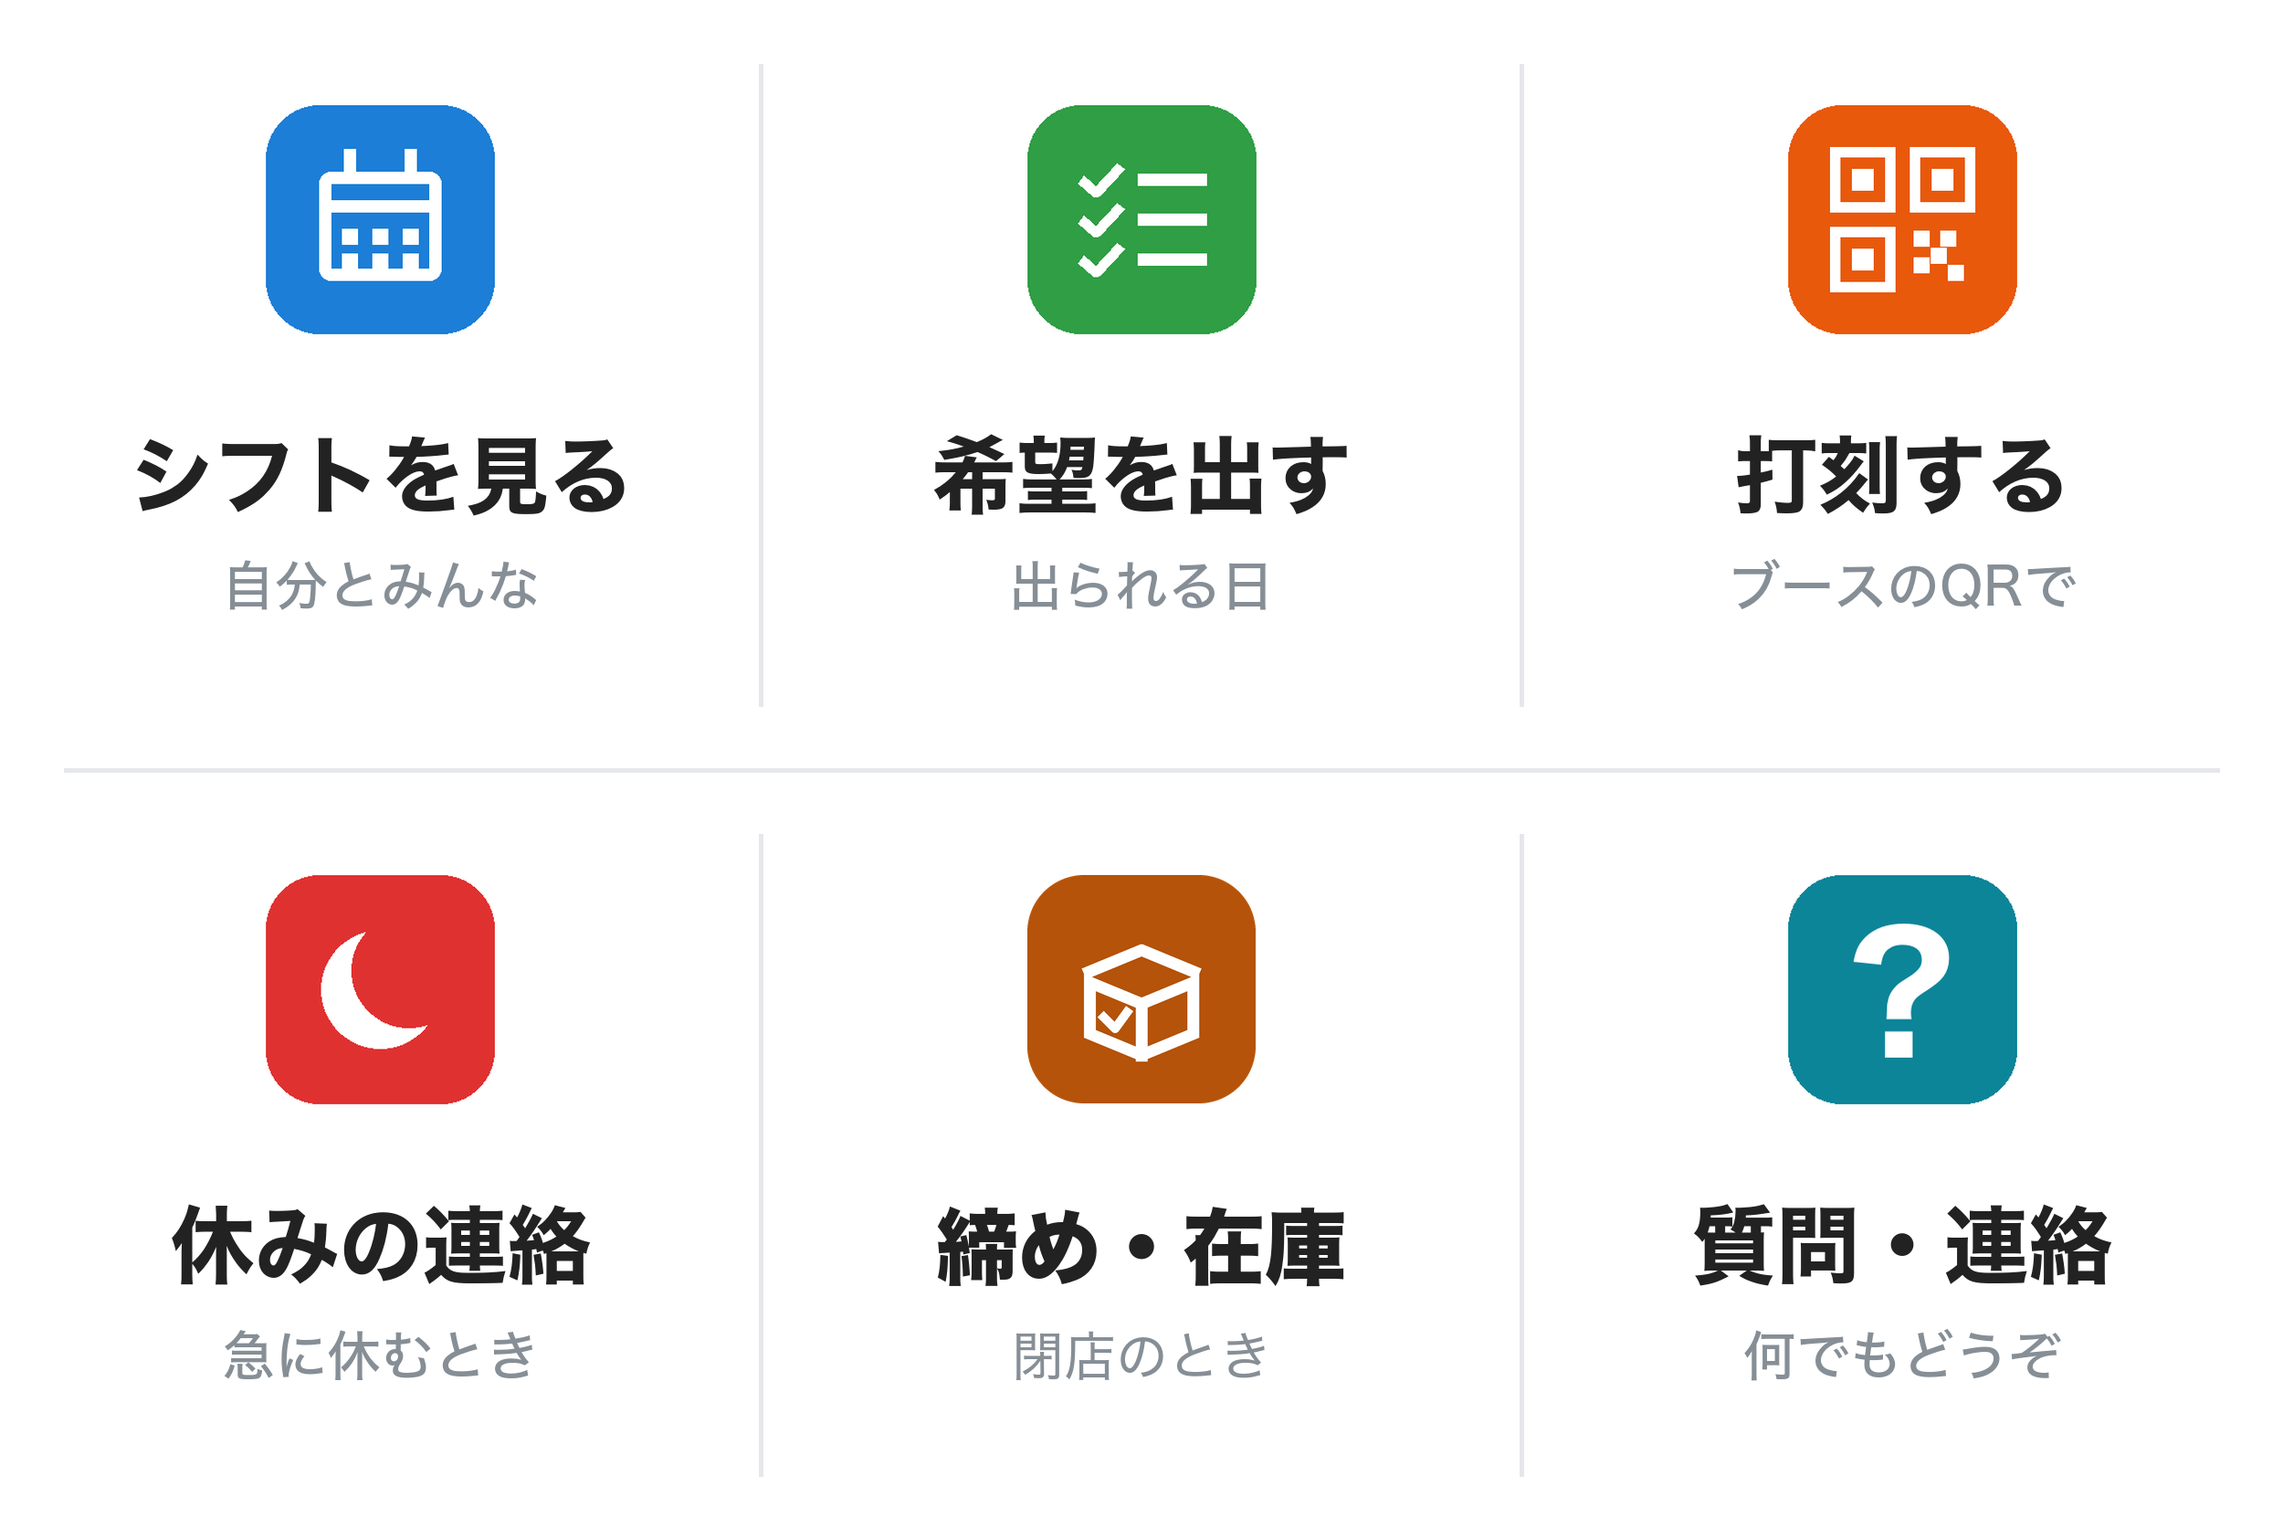
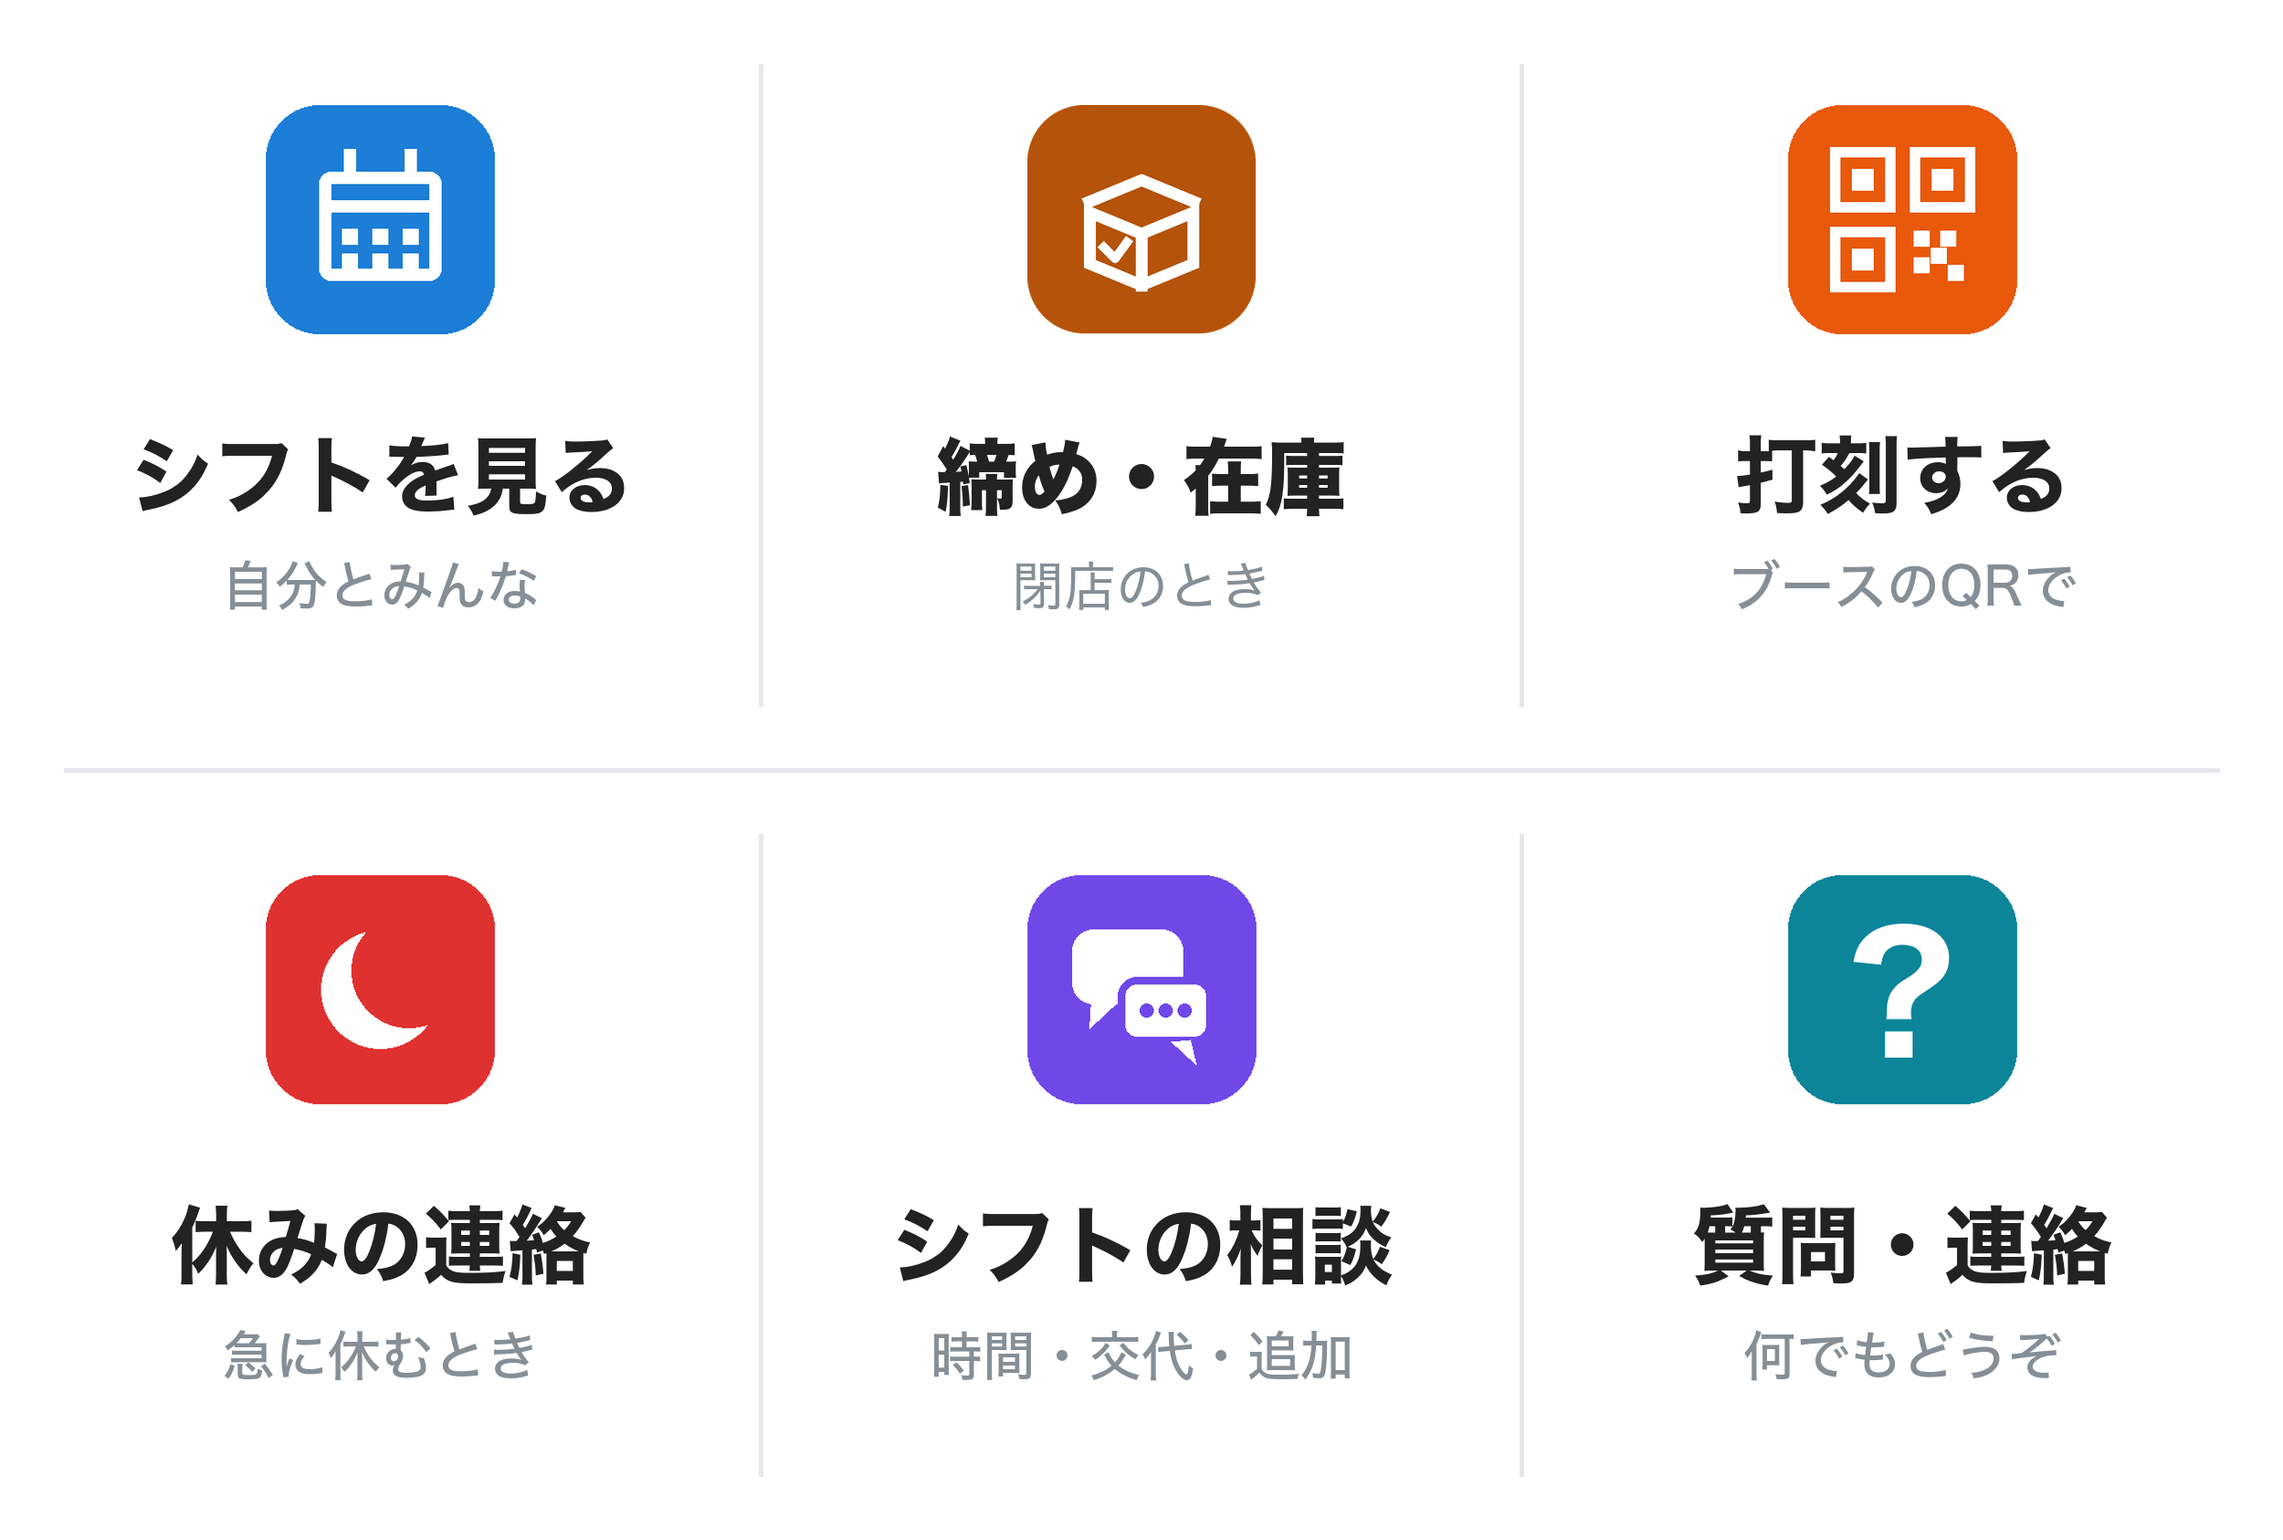
催事の在庫: LINEメニューは「希望を出す」の枠を「締め・在庫」にする（シフトの相談は残す）
在庫を使っている間は上の段のまん中を在庫の画面にする。希望はトークに「希望」と
送れば出せる（募集のときは「希望を出す」ボタン付きの案内が届く）。
シフトの相談の案内文は元に戻した。

diff --git a/backend/src/routes/line.ts b/backend/src/routes/line.ts
@@ -794,7 +794,7 @@ router.post('/webhook/:companyId', async (req: Request, res: Response): Promise<
       } else if (event.type === 'follow' && event.replyToken) {
         const known = lineMember(companyId, lineUserId);
         await replyLine(s.channel_access_token, event.replyToken, known
-          ? `${known.name}さん、おかえりなさい。トーク画面の下のメニューから、シフトを見る・希望を出す・休みの連絡・${consultName(companyId)}・打刻ができます。`
+          ? `${known.name}さん、おかえりなさい。トーク画面の下のメニューから、シフトを見る・${requestsName(companyId)}・休みの連絡・シフトの相談・打刻ができます。`
           : `友だち追加ありがとうございます。\n\nシフトの連絡を受け取るために、このトークに【名前とふりがな】を送ってください。\n例：山田 花子 やまだ はなこ\n\n${W(companyId)}が確認したら「連携できました」とお知らせします。\n（お店からもらった招待QRがある人は、そちらを読んでもOKです）`);
       } else if (event.type === 'unfollow') {
         db.prepare('DELETE FROM user_line_ids WHERE line_user_id = ?').run(lineUserId);
@@ -896,7 +896,7 @@ export function W(companyId: number): string {
 
 // 連携できたときの返事（招待リンク・承認のどちらでも同じ文面）
 const linkedMsg = (companyId: number, name: string) =>
-  `${name}さん、連携できました🎉\n\nこれからはこのLINEで、シフトの公開や希望の受付をお知らせします。\nトーク画面の下のメニューから、シフトを見る・希望を出す・休みの連絡・打刻ができます。\n\nシフトを変えたい・代わってほしいときは${consultHow(companyId)}、そのほかは「質問・連絡」を押してください。${W(companyId)}に届きます。`;
+  `${name}さん、連携できました🎉\n\nこれからはこのLINEで、シフトの公開や希望の受付をお知らせします。\nトーク画面の下のメニューから、シフトを見る・${requestsName(companyId)}・休みの連絡・打刻ができます。\n\nシフトを変えたい・代わってほしいときは「シフトの相談」、そのほかは「質問・連絡」を押してください。${W(companyId)}に届きます。`;
 
 // まだ連携していない人への案内（メニューを押したときなど）
 const unlinkedMsg = (companyId: number) =>
@@ -1007,12 +1007,12 @@ async function handleText(text: string, companyId: number, lineUserId: string, t
       return;
     }
     if (what === 'help') {
-      await replyLine(token, replyToken, `【使い方】トーク画面の下のメニューを押してください。\n・シフトを見る … 自分とみんなの予定\n・希望を出す … 出られる日を提出\n・打刻する … ブースのQRを読んで出勤・退勤\n・休みの連絡 … 休むシフトを${W(companyId)}に連絡\n${stockMenu(companyId) ? '・締め・在庫 … 閉店の残りの数え・レジ締め\n・シフトの相談 … トークに「相談」と送る（時間を変えたい・代わりたい・日を増やしたい）\n' : '・シフトの相談 … 時間を変えたい・代わりたい・日を増やしたい\n'}・質問・連絡 … そのほか何でも\n\nこのトークにそのまま書いて送っても、${W(companyId)}に届きます。`);
+      await replyLine(token, replyToken, `【使い方】トーク画面の下のメニューを押してください。\n・シフトを見る … 自分とみんなの予定\n${stockMenu(companyId) ? '・締め・在庫 … 閉店の残りの数え・レジ締め\n' : '・希望を出す … 出られる日を提出\n'}・打刻する … ブースのQRを読んで出勤・退勤\n・休みの連絡 … 休むシフトを${W(companyId)}に連絡\n・シフトの相談 … 時間を変えたい・代わりたい・日を増やしたい\n・質問・連絡 … そのほか何でも\n\nこのトークにそのまま書いて送っても、${W(companyId)}に届きます。${stockMenu(companyId) ? '\n希望を出すときは、このトークに「希望」と送ってください。' : ''}`);
       return;
     }
     if (what) { await replyMenu(what, companyId, lineUserId, token, replyToken); return; }
     if (isAdminMember(me)) return; // 店長自身の書き込みは転送しない
-    await replyLine(token, replyToken, `${W(companyId)}に届けました。返事はこのトークでお知らせします。\n（シフトを変えたいときは、${consultHow(companyId)}からも送れます）`);
+    await replyLine(token, replyToken, `${W(companyId)}に届けました。返事はこのトークでお知らせします。\n（シフトを変えたいときは、下のメニューの「シフトの相談」からも送れます）`);
     if (!watched) await forwardToAdmins(companyId, token, me, lineUserId, '質問', [text.slice(0, 400)]);
     return;
   }
@@ -1078,7 +1078,7 @@ async function replyMenu(what: string, companyId: number, lineUserId: string, to
     const me = lineMember(companyId, lineUserId);
     if (!me) return replyLine(token, replyToken, unlinkedMsg(companyId));
     setConsult(companyId, lineUserId, 'ask', null);
-    return replyLine(token, replyToken, `聞きたいこと・伝えたいことを、このトークに書いて送ってください。${W(companyId)}に届きます。\n\n${CONSULT_TOPIC.ask.example}\n\n※シフトを変えたいときは${consultHow(companyId)}、休むときは「休みの連絡」が早いです。`);
+    return replyLine(token, replyToken, `聞きたいこと・伝えたいことを、このトークに書いて送ってください。${W(companyId)}に届きます。\n\n${CONSULT_TOPIC.ask.example}\n\n※シフトを変えたいときは「シフトの相談」、休むときは「休みの連絡」が早いです。`);
   }
   if (what === 'howto') {
     const liff = (db.prepare('SELECT liff_id FROM line_settings WHERE company_id = ?').get(companyId) as any)?.liff_id;
@@ -1224,10 +1224,9 @@ export function stockLiffUrl(companyId: number, query = ''): string | null {
   return `https://liff.line.me/${s.liff_id}/stock${query ? `?${query}` : ''}`;
 }
 
-/** メニューの「シフトの相談」が「締め・在庫」に替わっているか（催事の在庫を使っている間） */
+/** メニューの「希望を出す」が「締め・在庫」に替わっているか（催事の在庫を使っている間） */
 const stockMenu = (companyId: number) => !!stockLiffUrl(companyId);
-const consultName = (companyId: number) => stockMenu(companyId) ? '閉店の締め' : 'シフトの相談';
-const consultHow = (companyId: number) => stockMenu(companyId) ? 'トークに「相談」と送る' : '下のメニューの「シフトの相談」';
+const requestsName = (companyId: number) => stockMenu(companyId) ? '閉店の締め' : '希望を出す';
 
 /** 指定したスタッフの LINE に送る（連携していない人は飛ばす）。送れた人数を返す */
 export async function pushToUsers(companyId: number, userIds: number[], message: LineMessage): Promise<number> {
@@ -1572,7 +1571,7 @@ async function handleAbsencePostback(q: URLSearchParams, companyId: number, line
 
 // トーク画面の下のメニューを付ける（画像は backend/assets/richmenu.png、2500x1686 の 3列×2段）
 //   上: シフトを見る／希望を出す／打刻する   下: 休みの連絡／シフトの相談／質問・連絡
-//   催事の在庫を使っている間は「シフトの相談」の枠が「締め・在庫」（画像は richmenu-stock.png）。相談はトークに「相談」と送ればできる
+//   催事の在庫を使っている間は「希望を出す」の枠が「締め・在庫」（画像は richmenu-stock.png）。希望はトークに「希望」と送れば出せる
 export async function installRichMenu(companyId: number): Promise<{ ok: boolean; error?: string }> {
   const s = db.prepare('SELECT channel_access_token, rich_menu_id, liff_id FROM line_settings WHERE company_id = ?').get(companyId) as any;
   if (!s?.channel_access_token) return { ok: false, error: 'LINE 通知の設定がまだです' };
@@ -1588,13 +1587,13 @@ export async function installRichMenu(companyId: number): Promise<{ ok: boolean;
     ? { bounds: bounds(2), action: { type: 'uri', uri: `https://liff.line.me/${s.liff_id}` } }
     : area(2, 'howto', '打刻のしかた');
   const stock = stockLiffUrl(companyId);
-  const middleArea = stock ? { bounds: bounds(4), action: { type: 'uri', uri: stock } } : area(4, 'consult', 'シフトの相談');
+  const secondArea = stock ? { bounds: bounds(1), action: { type: 'uri', uri: stock } } : area(1, 'requests', '希望を出す');
   const created = await lineApi(token, '/v2/bot/richmenu', {
     method: 'POST',
     body: {
       size: { width: W, height: H }, selected: true, name: 'shiftlog-menu', chatBarText: 'シフトのメニュー',
-      areas: [area(0, 'shifts', 'シフトを見る'), area(1, 'requests', '希望を出す'), punchArea,
-        area(3, 'absent', '休みの連絡'), middleArea, area(5, 'ask', '質問・連絡')],
+      areas: [area(0, 'shifts', 'シフトを見る'), secondArea, punchArea,
+        area(3, 'absent', '休みの連絡'), area(4, 'consult', 'シフトの相談'), area(5, 'ask', '質問・連絡')],
     },
   });
   const id = created.data?.richMenuId;

diff --git a/frontend/src/pages/MyShiftsPage.tsx b/frontend/src/pages/MyShiftsPage.tsx
@@ -398,7 +398,7 @@ export default function MyShiftsPage() {
               myDay.length > 0
                 ? <>
                     {myDay.map(s => <ShiftCard key={s.id} s={s} showDate={false} />)}
-                    <p className="text-xs text-gray-500 px-1 pt-1">時間を変えたい・代わってほしいときは、LINEのトークに「相談」と送ると選べます。</p>
+                    <p className="text-xs text-gray-500 px-1 pt-1">時間を変えたい・代わってほしいときは、LINEの下のメニュー「シフトの相談」から送れます。</p>
                   </>
                 : <p className="text-sm text-gray-400 bg-white rounded-xl border border-gray-200 py-6 text-center">この日は勤務がありません</p>
             ) : (

diff --git a/backend/assets/make_stock_menu.py b/backend/assets/make_stock_menu.py
@@ -1,4 +1,4 @@
-# 在庫期間用のLINEメニュー画像: 「シフトの相談」の枠を「締め・在庫」に差し替える
+# 在庫期間用のLINEメニュー画像: 「希望を出す」の枠（上の段のまん中）を「締め・在庫」に差し替える
 # 使い方: python make_stock_menu.py richmenu.png richmenu-stock.png（Pillow とヒラギノ角ゴが要る。Mac で実行）
 from PIL import Image, ImageDraw, ImageFont
 import sys
@@ -6,7 +6,7 @@ src, dst = sys.argv[1], sys.argv[2]
 S = 4  # 拡大して描いて縮める（角を滑らかに）
 im = Image.open(src).convert('RGB')
 d = ImageDraw.Draw(im)
-d.rectangle((840, 850, 1660, 1686), fill=(255, 255, 255))  # 区切り線(831-835, 841-845)は残す
+d.rectangle((840, 0, 1660, 835), fill=(255, 255, 255))  # 区切り線(縦831-835, 横841-845)は残す
 
 # アイコン: 茶色の角丸＋白い段ボール箱
 ic = Image.new('RGBA', (250 * S, 250 * S), (0, 0, 0, 0))
@@ -22,13 +22,13 @@ g.line(P((125, 134), (125, 204)), fill=W, width=lw)
 # 数えのチェック
 g.line(P((80, 152), (96, 168), (112, 146)), fill=W, width=10 * S, joint='curve')
 ic = ic.resize((250, 250), Image.LANCZOS)
-im.paste(ic, (1125, 958), ic)
+im.paste(ic, (1125, 115), ic)
 
 F = '/System/Library/Fonts/ヒラギノ角ゴシック W%d.ttc'
 cx = 1250
 def center(text, font, top, color):
     b = font.getbbox(text)
     d.text((cx - (b[0] + b[2]) / 2, top - b[1]), text, font=font, fill=color)
-center('締め・在庫', ImageFont.truetype(F % 8, 90), 1320, (34, 34, 34))
-center('閉店のとき', ImageFont.truetype(F % 4, 57), 1457, (134, 142, 150))
+center('締め・在庫', ImageFont.truetype(F % 8, 90), 477, (34, 34, 34))
+center('閉店のとき', ImageFont.truetype(F % 4, 57), 614, (134, 142, 150))
 im.save(dst, optimize=True)
